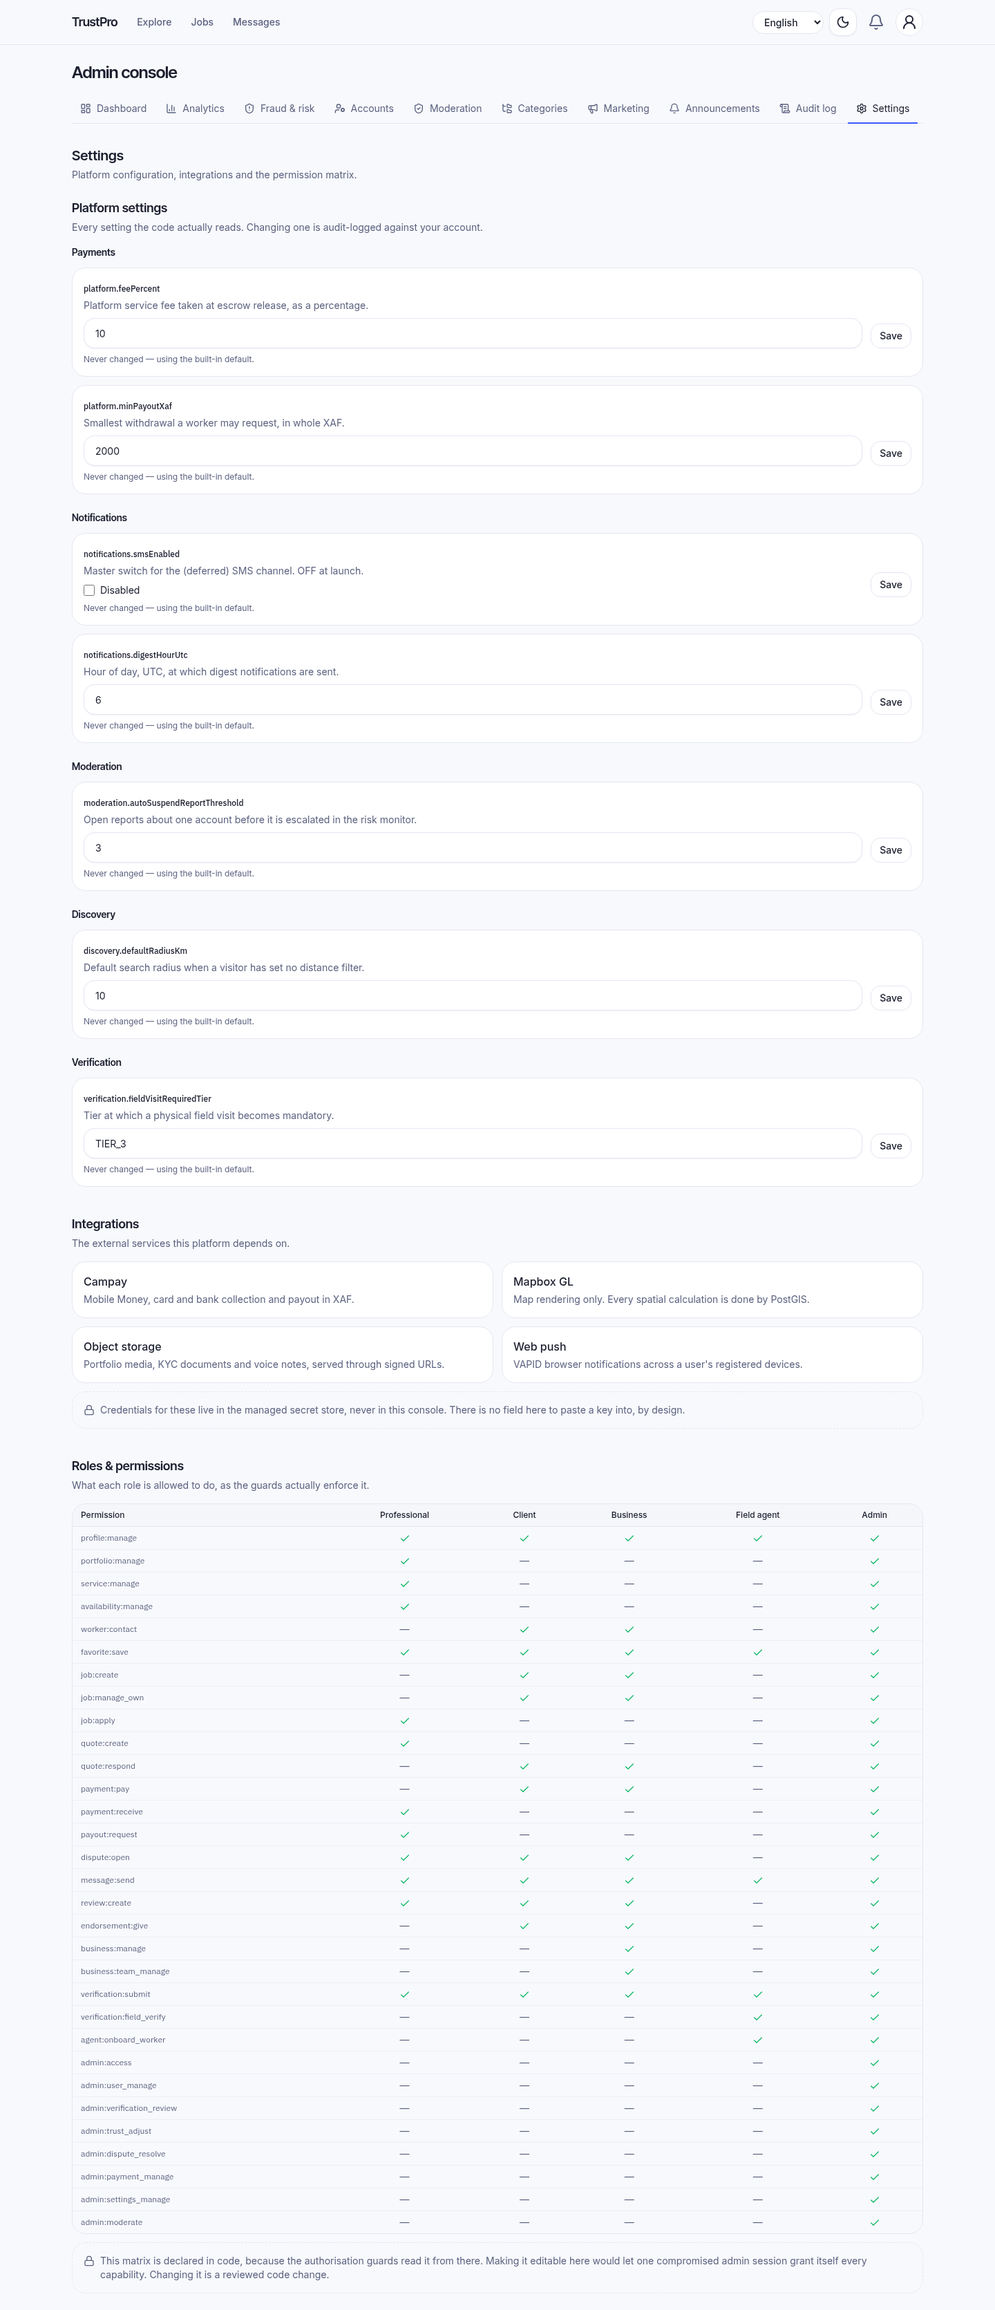
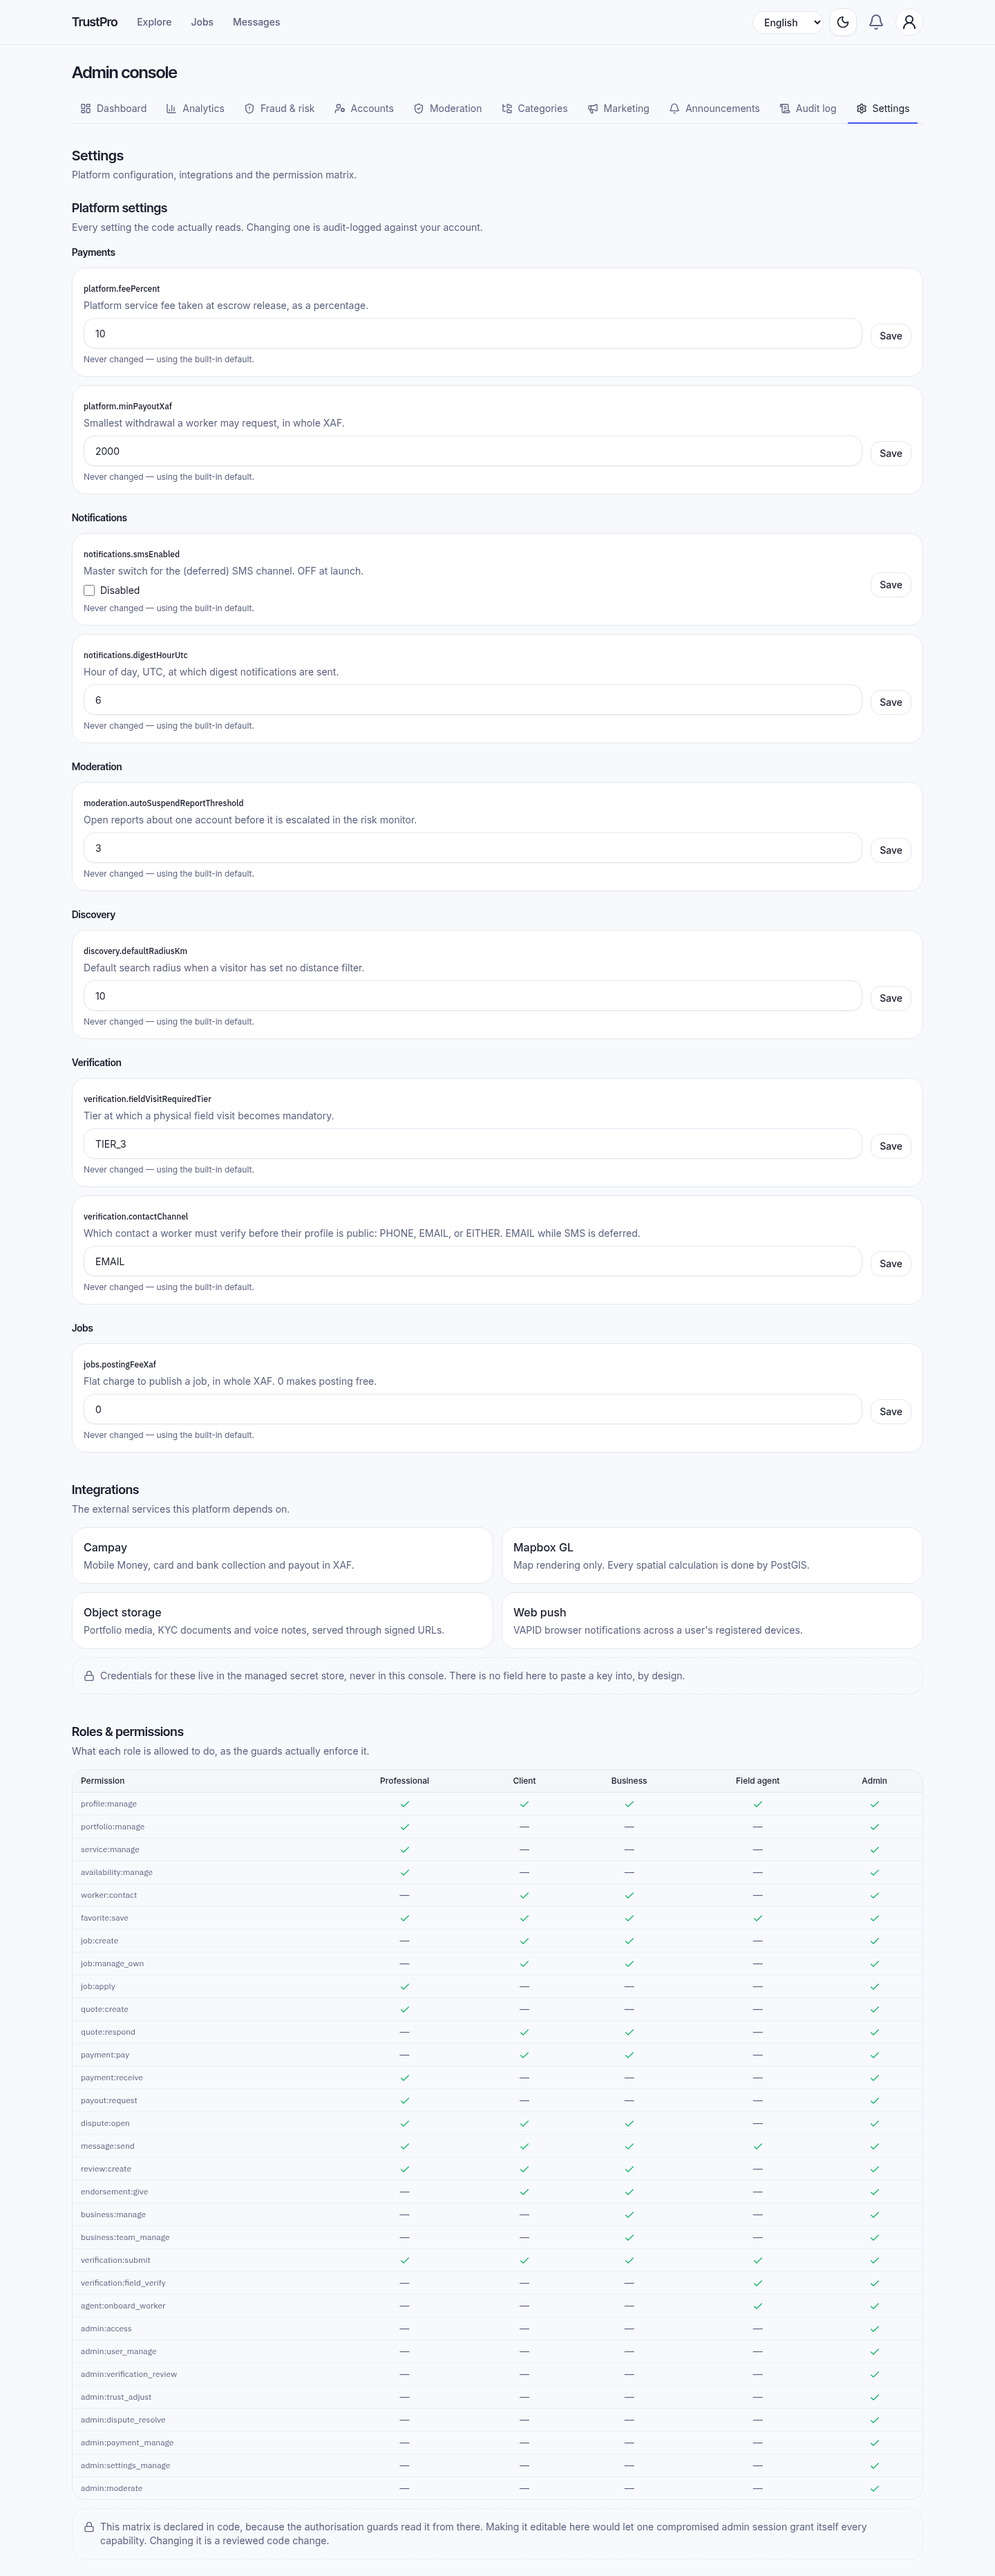
fix(i18n): label the new Jobs settings category, and record the re-audit
Adding jobs.postingFeeXaf created a settings category the admin console had no
label for, so Admin → Settings threw MISSING_MESSAGE on every load. Caught by
re-running the browser audit rather than by reading the diff. Added EN/FR.

The runbook now reports both passes honestly: 106 route loads on the original
bug hunt, and 76 re-audited after the rework, since changing what a worker
profile and a job board are ALLOWED to show invalidates a clean bill of health
measured before it.

Claude-Session: https://claude.ai/code/session_01N2UJ26GEeKvmRtYppaixk3

diff --git a/docs/DEMO_READINESS.md b/docs/DEMO_READINESS.md
@@ -2,9 +2,12 @@
 
 A full browser pass over the running platform (production build, real API,
 freshly seeded PostGIS database), driven with Playwright as a live visitor
-rather than through unit tests. **106 route loads** across guest, client,
-worker, business, admin and agent, in EN and FR, at desktop, mobile (390×844)
-and dark-mode viewports.
+rather than through unit tests, across guest, client, worker, business, admin
+and agent, in EN and FR, at desktop, mobile (390×844) and dark-mode viewports.
+
+Run twice: **106 route loads** on the first pass (the bug hunt below), and
+**76 more** re-audited after the trust/visibility/ranking rework, since that
+change touched what every one of those pages is allowed to show.
 
 Screenshots of the end state are in `docs/demo-audit/`.
 
@@ -22,6 +25,7 @@ Screenshots of the end state are in `docs/demo-audit/`.
 | Horizontal overflow on mobile | — | **0 / 106** |
 | Post a job, end to end | ❌ 404 | ✅ published |
 | Sign up → OTP → signed in | ❌ | ✅ |
+| **Re-audit after the rework** | — | **0 / 76** with an HTTP error, error state, console error or mobile overflow |
 
 ---
 
